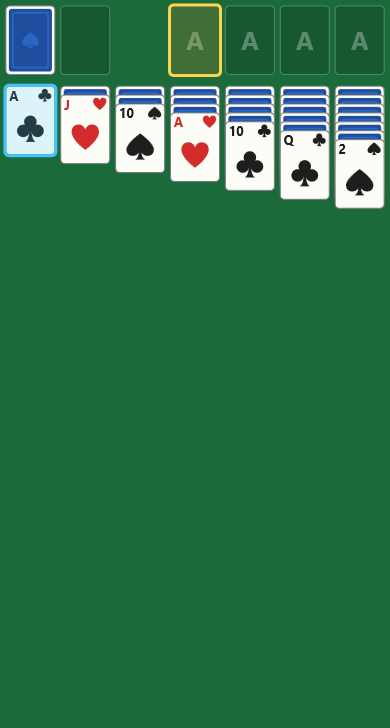
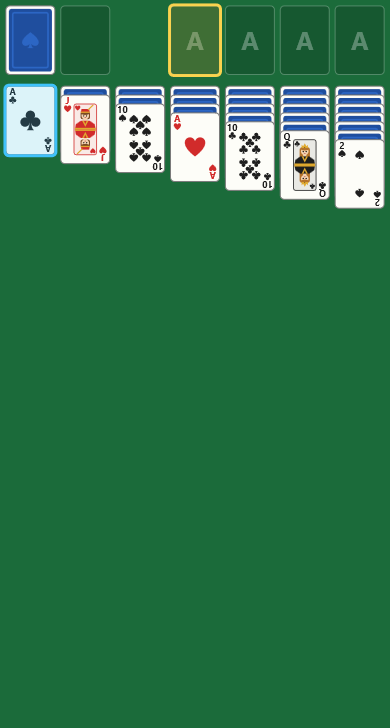
Draw court card pictures and make Classic the default style
Jacks, queens and kings in the Classic style now show a simple drawn
figure instead of a letter. Classic is the default for new installs.
README screenshots are refreshed to match.

Claude-Session: https://claude.ai/code/session_01TjXjoEqoa3T3gEHYvzzhuv

diff --git a/README.md b/README.md
@@ -6,7 +6,7 @@ A FireMonkey (Delphi 13 / RAD Studio 37.0) solitaire collection for Windows, And
 - Rules guide for every game, hints, undo, auto-complete
 - Statistics kept per game and variant
 - Win effects: bouncing cards, fireworks, fountain, or random
-- Two card styles: Modern (large rank and suit) and Classic (corner indexes and traditional pips)
+- Two card styles: Classic (corner indexes, traditional pips and pictured court cards; the default) and Modern (large rank and suit)
 - Portrait and landscape layouts; unfinished deals are saved per game
 
 ## Screenshots
@@ -27,11 +27,15 @@ A FireMonkey (Delphi 13 / RAD Studio 37.0) solitaire collection for Windows, And
 | --- | --- | --- | --- |
 | ![Fireworks](docs/screenshots/win-fireworks.png) | ![Choose a game](docs/screenshots/choose-game.png) | ![Klondike on a phone](docs/screenshots/phone-klondike.png) | ![TriPeaks on a phone](docs/screenshots/phone-tripeaks.png) |
 
-### Classic card style
+### Card styles
 
-Menu → Options → Card style switches between the two looks.
+The Classic style is the default, with drawn pictures for the jack, queen and king:
 
-![Classic card style](docs/screenshots/classic-cards.png)
+![Court cards](docs/screenshots/court-cards.png)
+
+Menu → Options and statistics → Card style switches to the Modern style:
+
+![Modern card style](docs/screenshots/modern-cards.png)
 
 ### Rotated phone (landscape)
 
